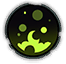
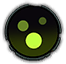
more status

diff --git a/Data/Builder.js b/Data/Builder.js
@@ -278,14 +278,28 @@ var incorrectIconOverrideList = [
 
 function AddTagIconsForStatusEffects(name) {
     // if(name == "")
-    var underline = "<span style=\"text-decoration:underline;color:beige;\">";
+    var underline = '<span style="text-decoration:underline;color:beige;">';
     var endtag = "</span>";
-    name = name.replace("Poisoned", "<poisoned></poisoned>" + underline + "Poisoned" + endtag);
-    name = name.replace("Bleeding", "<bleeding></bleeding>" + underline + "Bleeding" + endtag);
-    name = name.replace("Burning", "<burning></burning>" + underline + "Burning" + endtag);
-    name = name.replace("Frozen", "<frozen></frozen>" + underline + "Frozen" + endtag);
-    name = name.replace("Berserk", "<berserked></berserked>" + underline + "Berserk" + endtag);
-    name = name.replace("Ghostfire", "<ghostfire></ghostfire>" + underline + "Ghostfire" + endtag);
+    const statusEffects = {
+        Poisoned: "poisoned",
+        Bleeding: "bleeding",
+        Burning: "burning",
+        Frozen: "frozen",
+        Berserk: "berserked",
+        Ghostfire: "ghostfire",
+        "Sundered Resistance": "sunderedresistance",
+        "Sundered Defense": "sundereddefense",
+        "Bolstered Resistance": "bolsteredresistance",
+        "Bolstered Defense": "bolstereddefense",
+        Wet: "wet",
+        Strengthened: "strengthened",
+        Weakened: "weakened",
+        Decaying: "decaying"
+    };
+
+    for (const [effect, tag] of Object.entries(statusEffects)) {
+        name = name.replace(effect, `<${tag}></${tag}>${underline}${effect}${endtag}`);
+    }
     return name;
 }
 
@@ -935,11 +949,11 @@ function addAbilityslot(a, holder, list, enchant) {
             if ("modifiers" in jsonUnitAbilities[j]) {
                 for (var l = 0; l < jsonUnitAbilities[j].modifiers.length; l++) {
                     abilityName += '<span style="color:#addd9e;font-size: 20px">&#11049</span>';
-                    abilityMod += "<bullet>" + AddTagIconsForStatusEffects(jsonUnitAbilities[j].modifiers[l].name) + "<br>";
+                    abilityMod +=
+                        "<bullet>" + AddTagIconsForStatusEffects(jsonUnitAbilities[j].modifiers[l].name) + "<br>";
                     abilityMod += jsonUnitAbilities[j].modifiers[l].description + "</bullet><br>";
                 }
             }
-
 
             var combinedReq = "";
             var m = "";
@@ -1019,7 +1033,7 @@ function addAbilityslot(a, holder, list, enchant) {
                                             abilityRange =
                                                 parseInt(
                                                     parseInt(jsonEnchantments[k].attack[t].range) +
-                                                    parseInt(abilityRange)
+                                                        parseInt(abilityRange)
                                                 ) + "*";
                                         }
                                     }
@@ -1132,8 +1146,6 @@ function addAbilityslot(a, holder, list, enchant) {
             dam.className = "ability_damage";
             dam.innerHTML = abilityDam;
 
-
-
             var abilityIconType = "";
             imag.setAttribute("src", "/aow4db/Icons/UnitIcons/" + abilityIcon + ".png");
 
@@ -1142,8 +1154,8 @@ function addAbilityslot(a, holder, list, enchant) {
             imag.setAttribute(
                 "style",
                 'background-image: url("/aow4db/Icons/Interface/' +
-                abilityIconType +
-                '.png");background-repeat: no-repeat;background-size: 40px 40px'
+                    abilityIconType +
+                    '.png");background-repeat: no-repeat;background-size: 40px 40px'
             );
 
             imag.setAttribute("onerror", "this.setAttribute('src','/aow4db/Icons/Text/mp.png')");
@@ -1206,7 +1218,6 @@ function addAbilityslot(a, holder, list, enchant) {
             btn.append(divider);
 
             //btn.tooltipData = span;
-
 
             addTooltipListeners(tex, spa);
         }
@@ -1450,7 +1461,7 @@ function GetAbilityToolTip(
 
     abilityDescr = abilityDescr.replaceAll("</br>", "");
     abilityDescr = AddTagIconsForStatusEffects(abilityDescr);
-    spa.innerHTML += "<hr> " + abilityDescr;// + "<br>";
+    spa.innerHTML += "<hr> " + abilityDescr; // + "<br>";
 
     // modifiers
     if (abilityMod != "") {
@@ -7155,8 +7166,8 @@ function backtraceStructureToTomeNameAndTier(structure) {
                         if ("affinities" in jsonTomes[j]) {
                             array.push(
                                 ClearAffinityExtraTags(duplicateTags(jsonTomes[j].affinities)).replaceAll(",", "") +
-                                "<br> " +
-                                jsonTomes[j].name
+                                    "<br> " +
+                                    jsonTomes[j].name
                             );
                         } else {
                             array.push(jsonTomes[j].name);

diff --git a/Style/icons.css b/Style/icons.css
@@ -19,6 +19,62 @@ burning {
     position: relative;
     margin-top: -10px;
 }
+sunderedresistance {
+    max-width: 30px;
+    top: 7px;
+    content: url(/aow4db/Icons/StatusEffects/sunderedresistance.png);
+    position: relative;
+    margin-top: -10px;
+}
+sundereddefense {
+    max-width: 30px;
+    top: 7px;
+    content: url(/aow4db/Icons/StatusEffects/sundereddefense.png);
+    position: relative;
+    margin-top: -10px;
+}
+bolsteredresistance {
+    max-width: 30px;
+    top: 7px;
+    content: url(/aow4db/Icons/StatusEffects/bolsteredresistance.png);
+    position: relative;
+    margin-top: -10px;
+}
+bolstereddefense {
+    max-width: 30px;
+    top: 7px;
+    content: url(/aow4db/Icons/StatusEffects/bolstereddefense.png);
+    position: relative;
+    margin-top: -10px;
+}
+strengthened {
+    max-width: 30px;
+    top: 7px;
+    content: url(/aow4db/Icons/StatusEffects/strengthened.png);
+    position: relative;
+    margin-top: -10px;
+}
+decaying {
+    max-width: 30px;
+    top: 7px;
+    content: url(/aow4db/Icons/StatusEffects/decaying.png);
+    position: relative;
+    margin-top: -10px;
+}
+weakened {
+    max-width: 30px;
+    top: 7px;
+    content: url(/aow4db/Icons/StatusEffects/weakened.png);
+    position: relative;
+    margin-top: -10px;
+}
+wet {
+    max-width: 30px;
+    top: 7px;
+    content: url(/aow4db/Icons/StatusEffects/wet.png);
+    position: relative;
+    margin-top: -10px;
+}
 berserked {
     max-width: 30px;
     top: 7px;
